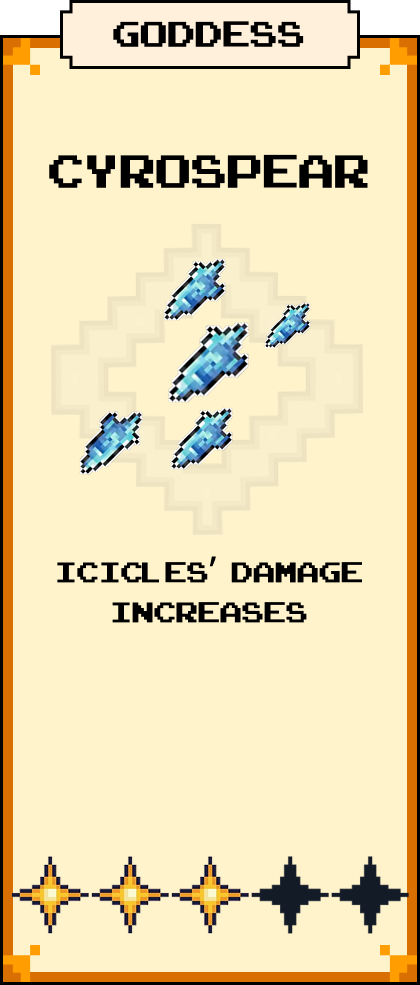
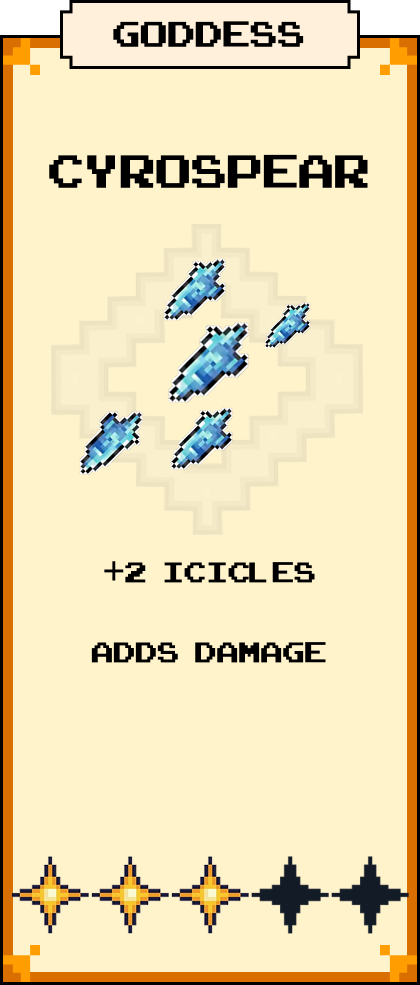
feat boss, fix skill
- feat boss
- feat boss spawn effect
- fix csv datas
- fix card imgs
- fix rainfire cooldown
- fix shield pushpower
- fix playtime to 6m

Changed region(s): [[0.1238, 0.5482, 0.8667, 0.6701]]

diff --git a/Assets/Scripts/UIManager.cs b/Assets/Scripts/UIManager.cs
@@ -36,7 +36,13 @@ public class UIManager : MonoBehaviour
     private GameObject _tutorialPanel;
 
     [SerializeField]
+    private GameObject _gameClearPanel;
+
+    [SerializeField]
     private GameObject _directionArrow;
+
+    [SerializeField]
+    private GameObject _bossWarningAlert;
 
     [SerializeField]
     private TextMeshProUGUI _killCountText;
@@ -57,6 +63,12 @@ public class UIManager : MonoBehaviour
     private TextMeshProUGUI _levelText;
 
     [SerializeField]
+    private TextMeshProUGUI _killScoreText;
+
+    [SerializeField]
+    private TextMeshProUGUI _timeScoreText;
+
+    [SerializeField]
     private GameObject _switchButton;
 
     [SerializeField]
@@ -64,6 +76,9 @@ public class UIManager : MonoBehaviour
 
     [SerializeField]
     private AudioClip _levelUpSound;
+
+    [SerializeField]
+    private AudioClip _bossWarningSound;
 
     [SerializeField]
     private Animator _transAnimator;
@@ -89,6 +104,7 @@ public class UIManager : MonoBehaviour
 
     private int _iconBoxIndex = 0;
 
+    private bool _isBossSpawn = false;
 
     private void Awake() {
         if(I != null && I != this) {
@@ -112,6 +128,8 @@ public class UIManager : MonoBehaviour
         _gameOverPanel.SetActive(false);
 
         StartCoroutine(SwitchStart()); // level 1 start
+        Invoke(nameof(DrawTutorialPanel), 1.0f);
+        Invoke(nameof(DrawBossSpawnAlert), 355f);
     }
 
     private void Update() {
@@ -147,12 +165,14 @@ public class UIManager : MonoBehaviour
         float maxExp = GM.I.LevelData[_weapon.ability.Lv].reqEXP;
         sliders[SliderType.WeaponEXP].value = curExp / maxExp;
 
-        //Boss go = GameObject.FindGameObjectWithTag("Boss")?.GetComponent<Boss>();
-        //if(go != null) {
-        //    float curBossHP = go.ability.HP;
-        //    float maxBossHP = go.ability.MaxHP;
-        //    sliders[SliderType.BossHP].value = curBossHP / maxBossHP;
-        //}
+        if(_isBossSpawn) {
+            Boss boss = GameObject.FindGameObjectWithTag("Boss")?.GetComponent<Boss>();
+            if(boss != null) {
+                float curBossHP = boss.ability.HP;
+                float maxBossHP = boss.ability.MaxHP;
+                sliders[SliderType.BossHP].value = curBossHP / maxBossHP;
+            }
+        }
 
         float curNexusHP = _nexus.ability.HP;
         float curNexusMaxHP = _nexus.ability.MaxHP;
@@ -199,9 +219,22 @@ public class UIManager : MonoBehaviour
         _timeResultText.text = _playTimeText.text;
     }
 
-    public void DrawTutorialPanel() => _tutorialPanel.SetActive(true);
+    public void DrawTutorialPanel() { 
+        _tutorialPanel.SetActive(true);
+        GM.I.PauseGame();
+    } 
 
     public void DrawNexusHitUI() {}
+
+    private void DrawBossSpawnAlert() {        
+        StartCoroutine(BossWarningRoutine());
+    }
+
+    public void DrawClearPanel() {
+        _gameClearPanel.SetActive(true);
+        _killScoreText.text = _killCountText.text;
+        _timeScoreText.text = _playTimeText.text;
+    }
 
     #endregion
 
@@ -248,6 +281,11 @@ public class UIManager : MonoBehaviour
         _audioSource.PlayOneShot(_buttonSound);
         _tutorialPanel.SetActive(false);
         GM.I.ResumeGame();
+    }
+
+    public void OnMainButton() {
+        _audioSource.PlayOneShot(_buttonSound);
+        StartCoroutine(PlayFadeOut());
     }
 
     #endregion
@@ -356,4 +394,34 @@ public class UIManager : MonoBehaviour
         yield return new WaitForSeconds(1f);
         GM.I.LoadLobby();
     }
+
+    private IEnumerator BossWarningRoutine() {
+        _audioSource.PlayOneShot(_bossWarningSound);
+        _bossWarningAlert.SetActive(true);
+
+        Image img = _bossWarningAlert.GetComponent<Image>();
+        Color color = img.color;
+
+        float totalDuration = 3f;
+        float elapsed = 0f;
+        float fadeCycleDuration = 1f;
+
+        while(elapsed < totalDuration) {
+            float cycleTime = elapsed % fadeCycleDuration;
+            float alpha = Mathf.PingPong(cycleTime * 2f, 1f);
+
+            color.a = alpha;
+            img.color = color;
+
+            elapsed += Time.deltaTime;
+            yield return null;
+        }
+
+        color.a = 0f;
+        img.color = color;
+        _bossWarningAlert.SetActive(false);
+    }
+
+    public void SetBossSpawnBool(bool value) => _isBossSpawn = value;
+
 }

diff --git a/Assets/Scripts/Monster/Boss.cs b/Assets/Scripts/Monster/Boss.cs
@@ -1,12 +1,11 @@
+using System;
 using System.Collections;
 using Unity.Collections;
 using UnityEngine;
 
 public class Boss : MonsterBase
 {
-    private int _multiAttackStack = 0;
-
-    private int _rushAttackStack = 0;
+    public event Action OnBossDeath;
 
     [SerializeField]
     private GameObject _telegraphObject;
@@ -14,6 +13,8 @@ public class Boss : MonsterBase
     [SerializeField]
     private GameObject _multiProjPref;
 
+    private int _multiAttackStack = 0;
+    private int _rushAttackStack = 0;
     private SpriteRenderer _telegraphSR;
 
     protected override void Initialize() {
@@ -27,6 +28,13 @@ public class Boss : MonsterBase
         ability.SetExp(0);
 
         _telegraphSR = _telegraphObject.GetComponent<SpriteRenderer>();
+    }
+
+    protected override void HandleDeath() {
+        OnBossDeath?.Invoke();
+        _state = State.Death;
+        SetState(State.Death);
+        GetComponent<BoxCollider2D>().enabled = false;
     }
 
     protected override void HandleAttack() {

diff --git a/Assets/Scripts/Monster/MonsterBase.cs b/Assets/Scripts/Monster/MonsterBase.cs
@@ -124,12 +124,12 @@ public abstract class MonsterBase : MonoBehaviour
 
     protected void CheckDeath() {
         if(ability.HP <= 0f) {
-            OnMonsterDeath?.Invoke(this);
             HandleDeath();
         }
     }
 
-    protected void HandleDeath() {
+    protected virtual void HandleDeath() {
+        OnMonsterDeath?.Invoke(this);
         _state = State.Death;
         SetState(State.Death);
         GetComponent<BoxCollider2D>().enabled = false;

diff --git a/Assets/Scripts/Weapon/Shield.cs b/Assets/Scripts/Weapon/Shield.cs
@@ -21,7 +21,7 @@ public class Shield : MonoBehaviour, IBattle {
     }
 
     private IEnumerator PushMob(Collider2D collision) {
-        float pushPower = 2f;
+        float pushPower = 1f;
 
         Vector2 pushDir = (collision.transform.position - transform.parent.position).normalized;
         collision.GetComponent<Rigidbody2D>().AddForce(pushDir * pushPower, ForceMode2D.Impulse);

diff --git a/Assets/Scripts/Weapon/RainFire.cs b/Assets/Scripts/Weapon/RainFire.cs
@@ -15,7 +15,7 @@ public class RainFire : WeaponProjBase {
 
     private float _lastLaunch = 0f;
 
-    private float _launchCool = 3f;
+    private float _launchCool = 4f;
 
     protected override void LevelUp() {
         base.LevelUp();
